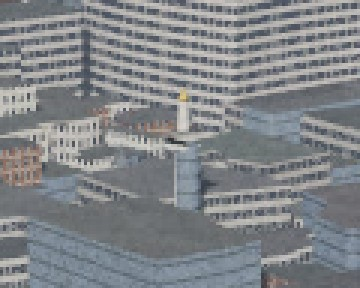
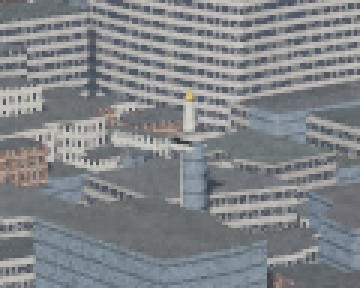
LOOK-T4-V2: báo cáo nháp §0–§2, thước đo công trình bỏ cụm lẻ, khói bếp xa mờ theo khoảng cách (dựng lại 1666)
Claude-Session: https://claude.ai/code/session_011ScMzPdAJ8FkQdvL1Acc7E

diff --git a/design/k2v/ldn/look2.js b/design/k2v/ldn/look2.js
@@ -462,7 +462,7 @@ async function buildChimneySmoke(base) {
   CHIM = new THREE.Mesh(g, new THREE.ShaderMaterial({ uniforms: U, transparent: true, depthWrite: false, blending: THREE.CustomBlending, blendSrc: THREE.OneFactor, blendDst: THREE.OneMinusSrcAlphaFactor,
     vertexShader: `attribute vec4 off; attribute vec4 sd; uniform float uYear, uT, uChimK; uniform vec3 uCam; uniform vec2 uWind; varying vec2 vUv; varying float vA; varying float vS;
       void main(){ vUv = position.xy + vec2(0.5, 0.0); float on = (uYear >= sd.x && uYear < sd.y && sd.z < uChimK) ? 1.0 : 0.0; float age = fract(off.w + uT * 0.02 + sd.w * 0.1);
-        vec3 c = off.xyz + vec3(uWind.x * age * 70.0, age * 26.0 + 1.0, uWind.y * age * 70.0); float size = (1.5 + age * 13.0) * on; vA = on * (1.0 - age) * smoothstep(0.0, 0.15, age) * 0.30 * smoothstep(180.0, 520.0, length(uCam - c)); vS = sd.w;
+        vec3 c = off.xyz + vec3(uWind.x * age * 70.0, age * 26.0 + 1.0, uWind.y * age * 70.0); float size = (1.5 + age * 13.0) * on; vA = on * (1.0 - age) * smoothstep(0.0, 0.15, age) * 0.30 * smoothstep(180.0, 520.0, length(uCam - c)) * (1.0 - smoothstep(1500.0, 3000.0, length(uCam - c))); vS = sd.w;   /* V2: khói bếp xa mờ dần (trước đây không áp sương → đốm sáng ở chân trời) */
         vec3 toC = normalize(uCam - c); vec3 rt = normalize(cross(vec3(0.0, 1.0, 0.0), toC)); vec3 up = normalize(cross(toC, rt)); vec3 w = c + (rt * position.x + up * (position.y - 0.5)) * size;
         if (size < 0.01) w = vec3(0.0, -1000.0, 0.0); gl_Position = projectionMatrix * viewMatrix * vec4(w, 1.0); }`,
     fragmentShader: `varying vec2 vUv; varying float vA; varying float vS; uniform vec3 uSunCol, uHaze; uniform float uNight; ${GLSL_N}

diff --git a/scripts/k2ldn/do_cong_trinh.py b/scripts/k2ldn/do_cong_trinh.py
@@ -36,6 +36,9 @@ def decode(png):
 def rong(yr, codes):
     m = np.isin(yr, codes)
     if not m.any(): return None
+    k, cc, st, _ = cv2.connectedComponentsWithStats(m.astype(np.uint8), 8)          # bỏ cụm lẻ < 5 px (mã trùng ngẫu nhiên / điểm rời) trước khi đo
+    m = np.isin(cc, [i for i in range(1, k) if st[i, 4] >= 5])
+    if not m.any(): return None
     ys, xs = np.nonzero(m); row = np.bincount(ys, minlength=yr.shape[0])
     best = 0
     for y in np.unique(ys):

diff --git a/reports/look-t4-v2/LOOK-T4-V2-BAO-CAO.md b/reports/look-t4-v2/LOOK-T4-V2-BAO-CAO.md
@@ -1,0 +1,81 @@
+Nhánh thật: `k2c-t4-02-look2` (gốc `origin/k2c-t4-02-look` @5123bebf). Nhánh mặc định của bộ khung (`claude/practical-mendel-u8qqn3`) KHÔNG dùng (lệnh gọi tên nhánh). SHA cuối = đỉnh nhánh (commit "… — DỪNG chờ chủ dự án").
+
+# BÁO CÁO LOOK-T4-V2 — vòng look thứ hai T4 London (K2C-T4-02) · 23/10/2026
+
+Căn cứ: chủ dự án chấm tờ LOOK-T4 (23:14) + nhận xét 23:41 — "1. Thành phố vẫn còn trông như “đồ chơi” 2. Khói và lửa cần rõ hơn 3. Các công trình biểu tượng chưa được rõ nét"; look hợp nhất 23:27 (A chuẩn + cháy ngày 1666/1940 ấm kiểu C + đêm cháy 1666 khói than dày kiểu B); L2–L6 theo khuyến nghị; lệnh 23:45 "1,2,3,4,5, đồng ý theo khuyến nghị".
+
+## Tóm tắt (đọc trước)
+- **Công trình (việc 1):** St Paul's, Monument, White Tower dựng lại chi tiết cao theo kích thước có nguồn PD (Gilbertson qua Gutenberg #48491; *London and Its Environs* 1761 qua Gutenberg #60008) + OSM. **Sửa lỗi vị trí Monument của look v1 (lệch ≈ 68 m).** Đo ở P1 1080p: vòm **46 px** (khung P1 fov 50°) — **TRƯỢT ngưỡng ≥ 60 px**; đạt **67 px** nếu P1 dùng fov 36° (cùng vị trí/hướng). **Monument và Tower nằm NGOÀI khung P1** (phương vị 49° và 77°, mép phải khung 46,7°) — đo từ vị trí P1 quay máy về từng công trình: Tower 49 px (đạt ≥ 12), **Monument 7 px (fov 50°) / 10 px (fov 36°) — TRƯỢT ≥ 12 px** vì thân cột bị khối văn phòng 2026 che, chỉ còn nón + bầu lửa ló lên. 3 chi tiết: đèn lồng vòm ĐỌC ĐƯỢC (14 px rộng ở P1), bầu lửa vàng Monument ĐỌC ĐƯỢC (4 px, sáng vàng trên nền xám), tháp góc White Tower MỜ (≈ 6 px/tháp, mũ chì tối khó đọc).
+- **Lửa + khói (việc 2):** cách A mới có lõi lửa, quầng sáng, tàn lửa theo gió đông, chân khói hắt đỏ theo độ cao, khói ngày đặc/tối/tách tầng, ánh lửa mặt tiền + mặt sông mạnh hơn. 1 khung Cycles GPU cùng máy/giờ (2 lần chạy, tổng **$0,053** theo số dư RunPod). Tự soi: lửa/khói rõ hơn LOOK-T4 thấy được; khói ngày tầng cao vẫn dạng "rèm"; khung Cycles có khói thể tích phát sáng thật hơn nhưng cảnh Cycles chưa có vân/ánh trăng.
+- **Tấm nền AI (việc 3):** 24 tấm (4 khung × 2 công cụ × 3 lượt) + 4 lần ghép lại không gọi AI. **Đạt cổng máy (i)–(v): 1 tấm** — 2026 toàn cảnh, OpenAI lượt 3. Các khung 1666 ngày: sau khi sửa 3 lỗi đường ống/3D của chính phiên này (khói bếp trong ảnh vào; dán khói bếp nguyên nền; khói bếp xa không áp sương) — kết quả §3. Đêm 1940: 0/6 (AI tự thêm cầu, đèn, thuyền). Gemini 0/12: đổi sắc nước (T9b nước→đất 19–69 %).
+- **Ước lại (việc 5):** tấm nền khả thi theo số đo ≈ **5–15 % thời lượng** (không phải 35–45 %) cho tới khi K xong phép (iii) và có quyết định V3–V4 ở phiếu. Ngân sách Gemini T4 ≈ $35: tấm nền chỉ ≈ $2–6; phần lớn là Omni M-d ($29–43 + kiểm) → **có thể vượt $35** nếu Omni cần 3 lượt.
+- **Phiếu:** `reports/look-t4-v2/PHIEU-LOOK-V2.md` (V1–V7).
+
+## §0. Nhánh, SHA, phạm vi, vận hành
+- Nhánh `k2c-t4-02-look2`, gốc `origin/k2c-t4-02-look` @5123bebf. Đã đẩy, **không merge**. Danh sách commit: `git log 5123bebf..k2c-t4-02-look2`.
+- Sửa trong vùng giao: `design/k2v/ldn/look2.js` (mới; `look.js` giữ nguyên để tái lập LOOK-T4); `scripts/k2ldn/**` (mới: `cong_trinh_v2.py`, `hinh_hoc_v2.py`, `look_khung_v2.py`, `do_cong_trinh.py`, `tam_nen_v2.py`, `tam_nen_bang.py`, `to_so_v2.py`, `v2_chay.sh`, `cy_xuat2.py`, `cy_ldn2.py`, `ai/gemini_batch.py`, `gpu/chay_cy_v2.sh`; sửa nhỏ có ghi chú: `render_look.js` (tham số --page/--lk/--mask), `nuong_look.py` (biến LDN_LOOK), `ai/n2p_lib.py` (biến N2P_DIR), `ai/oai_edit.py` + `ai/vision_kiem.py` (mốc/chặn qua biến môi trường), `gpu/pod.py` (biến NCG_LEDGER)); `channel-k2/k2c-t4-02/` (chỉ THÊM `look/may-v2/`, `ai/lenh-v2/`, `ai/goc-v2/`); `reports/look-t4-v2/**`. Không chạm `checks/` (chỉ CHẠY `checks/ll/q_thoi_dai.py` và `lock.py --verify`, không đọc mã), `docs/`, sổ, `tools/`, `design/k2v/tl/**`, `design/cong3/shared/**`, `channel-k2/k2c-t3-01/**` (chỉ đọc LUT), `LOI-NHAP-v1.md`, `BANG-SHOT-v1.*`, `TREATMENT.md`, `main`.
+- Mọi commit qua preflight (`set -o pipefail`, hook pre-commit + pre-push cài trước lần đẩy đầu) "PREFLIGHT ĐẠT" + `lock.py --verify` KHỚP. Không force-push, không amend. Email che (git dùng noreply). UA "CineLab-research (+https://github.com/HungQuach301/cine-lab)". Khoá do proxy gắn, không in/ghi.
+- Tệp lớn ngoài git ở `/var/tmp/ldn/` (OSM, LiDAR, tư liệu, vân, hình học `look2/ldn2.bin` SHA trong log, lightmap, khung thô, timelapse, gốc AI PNG/JSON). Ảnh AI tốn tiền: bản JPG ≤ 5 MB trong `channel-k2/k2c-t4-02/ai/goc-v2/` (đưa vào git trong ≤ 10 phút sau khi về), gốc + SHA trong sổ AI.
+
+## §1. Việc 1 — CÔNG TRÌNH BIỂU TƯỢNG (lớp dữ kiện, 3D, không AI)
+Mã: `scripts/k2ldn/cong_trinh_v2.py` (St Paul's, Monument, White Tower) gọi qua `scripts/k2ldn/hinh_hoc_v2.py` (thay 3 hàm của `hinh_hoc_look.py`; hàm cũ vẫn được gọi trên lưới bỏ đi để chuỗi ngẫu nhiên của phần thành phố còn lại KHÔNG lệch). Nguồn + trích nguyên văn + bậc: `reports/look-t4-v2/NGUON-CONG-TRINH.md`.
+
+| Công trình | Làm gì (V2) | Kích thước dùng · nguồn | Bậc §12.2 |
+|---|---|---|---|
+| St Paul's (Wren) | Bố cục lại theo kích thước nguồn: dài 157 m (look v1 ≈ 178 m — dài quá ≈ 20 m), tường màn 2 tầng có cửa sổ theo khoang + trụ áp + lan can sáng, cánh ngang + portico bán nguyệt có cột, mặt tây 54,9 m: portico 2 tầng cột ghép đôi (12 + 8) + trán tam giác, **hai tháp tây 67,4 m** (tầng chuông mở có cột ghép đôi, mũ chì cong, quả dứa mạ vàng); trống Ø 34,1 m: hàng 32 cột + 8 khối đặc + Stone Gallery + tầng gác có 24 cửa sổ; **vỏ vòm chì Ø 31,1 m có 24 gân** (shader theo góc); Golden Gallery + lan can sắt; **đèn lồng có 4 cánh trụ + 8 ô cửa**; mũ chì; quả cầu vàng Ø ≈ 2 m; thập giá tới 111,3 m | 515 / 250 / 180 / 112 / 102 / 221 / 365 ft (Gilbertson, Gutenberg #48491); 110 ft lan can, 121 ft thân (Wikipedia) | 3 (kích thước) · 4–5 (tỉ lệ tầng, số cột, đèn lồng) |
+| Monument | **Đặt lại theo OSM r3374550 (532923, 180761)** — look v1 lệch ≈ 68 m; đế 27 ft, bệ 21,5 ft × 40 ft + gờ + 4 khối rồng góc, thân Doric 20 rãnh Ø 15 ft cao 120 ft, đầu cột + abacus + lan can sắt, nón 32 ft, bầu lửa mạ vàng + 9 lưỡi lửa | 15 / 120 / 40 / 42 / 32 ft (*London and Its Environs* 1761, Gutenberg #60008); 21,5 / 27 ft (Strype 1720 qua lookup.london — thứ cấp, chưa đọc gốc) | 1 vị trí · 3 · 5 (rồng, lưỡi lửa) |
+| White Tower | Theo tâm + trục OSM w369135772; 36 × 32 m, 27 m; răng cưa lan can, trụ áp, 3 tầng cửa sổ; tháp vuông TB + TN, tháp tròn ĐB, apse bán nguyệt ĐN; mũ chì cong + chong chóng mạ vàng; màu quét vôi trắng; tường thành giữ như v1 + 3 tháp giữa mỗi cạnh tường (bậc 5) | Wikipedia "White Tower" (36 × 32 m, 27 m, vị trí tháp góc) | 1 · 3 · 4 (mũ chì, Hollar) · 5 |
+| Old St Paul's, London Bridge 1666 | Giữ như LOOK-T4 (Hollar/Dugdale 1658) | — | — |
+| 30 St Mary Axe, Leadenhall | Hình khối giữ (OSM + LiDAR); **vật liệu** riêng: dải kính tối xoắn + lưới kim cương (mt 15); khung giằng chéo lộ (mt 16) | ảnh công khai | 1 hình khối · 4 vật liệu |
+
[1 lines of base64/hex data omitted]
+
+**Số đo 1080p từ điểm máy P1 [532330, 180250, 230]** (mặt nạ mã công trình có che khuất thật, `scripts/k2ldn/do_cong_trinh.py`; thước bỏ cụm lẻ < 5 px; ô cắt phóng ×3 lân cận gần nhất: `reports/look-t4-v2/cong-trinh/`; số: `reports/look-t4-v2/do/cong-trinh.json`). Năm 2026 ngày (khung M4-rong).
+
+| Đo | P1 khung thật (fov 50°) | P1 fov 36° (cùng vị trí/hướng) | P1 quay nhìn thẳng công trình, fov 50° / 36° | Ngưỡng lệnh | Kết quả |
+|---|---|---|---|---|---|
+| Bề ngang VỎ VÒM St Paul's | **46 px** | **67 px** | 39 / 55 | ≥ 60 | TRƯỢT ở fov 50°; đạt ở fov 36° |
+| — trống (hàng cột) | 51 | 73 | 43 / 61 | — | — |
+| — đèn lồng (gồm Golden Gallery, cầu, thập giá) | 14 × 32 | 20 × 51 | 11 / 16 | chi tiết nhận ra | ĐỌC ĐƯỢC (ô cắt) |
+| — tháp tây (mỗi tháp) | 34 × 81 | 49 × 144 | 27 / 38 | — | — |
+| Monument (phần thấy được) | ngoài khung (phương vị 49°) | ngoài khung | **7 / 10** (thân cột chỉ thấy 1 px — khối văn phòng 2026 che; bệ khuất hẳn) | ≥ 12 | **TRƯỢT** |
+| — bầu lửa mạ vàng | — | — | 4 × 4 / 4 × 6 | chi tiết nhận ra | ĐỌC ĐƯỢC (chấm vàng sáng) |
+| White Tower (khối + tháp góc) | ngoài khung (phương vị 77°) | ngoài khung | **49 / 70** (khối chính 38 / 54) | ≥ 12 | đạt |
+| — mỗi tháp góc | — | — | ≈ 6 px (6,6 m ở 1,32 km) | chi tiết nhận ra | MỜ — mũ chì tối khó đọc |
+
+Đọc số: ngưỡng ≥ 60 px cho vòm ở P1 **không đạt được với kích thước đúng nguồn ở fov 50°** (vòm 31,1 m ở ≈ 0,94 km). Không phóng to mô hình để "đạt số" (luật cứng). Đường đạt: P1 fov 36° (đề xuất V5) hoặc máy gần hơn. Monument: kể cả fov 36° cũng không đủ 12 px vì bị che ở 2026; ở 1700–1840 (trước khối Victoria) Monument sẽ lộ cả thân — chưa đo (không có khung đó trong tờ so).
+
+
+## §2. Việc 2 — LỬA + KHÓI (lớp dữ kiện, 3D)
+Mã: `design/k2v/ldn/look2.js` (bản sao `look.js` + nâng; LOOK-T4 tái lập được bằng `look.js`). Look hợp nhất theo mốc ở `scripts/k2ldn/look_khung_v2.py` → `channel-k2/k2c-t4-02/look/may-v2/*.json` (cùng máy/giờ 8 hàng LOOK-T4).
+
+| Hạng mục | LOOK-T4 (A) | V2 |
+|---|---|---|
+| Ngọn lửa | sprite atlas cam đều | **lõi vàng trắng** (t² + nhánh lõi), cỡ 5–14 m (trước 4–11), + **quầng sáng** mềm 26–48 m trên mỗi ô cháy (cộng sáng, đêm ×4) |
+| Tàn lửa | không có | **tàn lửa bay theo gió** (5/ô 1666, 3/ô 1940): bốc 60–220 m, trôi theo gió 160–460 m, chập chờn; cỡ ≥ 1,5 px ở mọi khoảng cách |
+| Khói ngày | xám nhạt, mỏng như sương | **đặc khối, mép rõ, nâu đen ở chân → xám nâu lên cao**, được nắng chiếu theo kênh G atlas; **tách tầng**: cột bốc tới trần 0,36–0,70 km rồi loang ngang theo gió đông; chân cột hắt lửa cả ban ngày |
+| Khói đêm | toàn cụm phát sáng cam | **chỉ chân cột/mặt dưới tầng khói (< ≈ 150 m) hắt đỏ** theo độ cao thật của cụm khói; tầng trên tối |
+| Ánh lửa | mặt tiền ×(2,2 · 0,5 · 0,06), mặt sông ×(0,14 · 0,05) | mặt tiền ×(2,4 · 0,85 · 0,14) (lan xa hơn), mặt sông ×(0,30 · 0,12) |
+| Look | A | A + C ấm (M2-ngay, M3-*), A + B khói than (M2-dem); sương phối cảnh 1/16 → **1/10 km**; mái/tường phong hoá theo nhà (chống "đồ chơi", `uToy`) |
+
+Ba khung so (cách A mới): `khung/M2-ngay-v2-3d.jpg` (ngày khói 3/9/1666 15:00, P1), `khung/M2-dem-v2-3d.jpg` (đêm 2/9 23:00 từ giữa sông, P6), `khung/M3-trung-v2-3d.jpg` (đêm 29/12/1940 22:30 quanh mái vòm, Fleet St) — cột "LOOK-T4 đã chọn" cạnh từng ô trên tờ so.
+
+**Cycles GPU (một khung cùng máy/giờ M2-dem):** cảnh xuất bằng `scripts/k2ldn/cy_xuat2.py` (hình học V2, 772 246 tam giác, 169 ô cháy) → RunPod.
+| Lần | Cảnh | GPU | Bật → tắt | Dựng 1 khung 1080p | $ ước theo giờ | Ghi chú |
+|---|---|---|---|---|---|---|
+| 1 | `cy_ldn.py` (tiền kỳ, giữ nguyên) spp 48 | RTX 5090 SECURE $1,19/h | 74 s (sẵn sàng 22 s; cài + tải 24 s) | **10,85 s** (23 s gồm nạp cảnh) | $0,024 | mặt tiền cháy trắng cả mảng; khói lốm đốm — không công bằng để so → `khung/M2-dem-cycles-ban1.jpg` |
+| 2 | `cy_ldn2.py` (chỉnh: cháy theo mảng, lửa thể tích sáng hơn, khói cụm lớn, trăng) spp 64 | RTX 4090 SECURE $0,89/h (5090 hết máy, HTTP 500) | 117 s | **23,83 s** (33 s gồm nạp) | $0,029 | khói thể tích phát sáng mềm, phản chiếu sông; thiếu vân, ánh trăng yếu → cột "Cycles" tờ so |
+Số dư RunPod: $21,138 → **$21,085 (thật $0,053)**; pod xoá HTTP 204 cả hai lần; không pod nào còn chạy.
+
+Tốc độ sản xuất cách A V2 (1080p, spp 4, P = 2, 24 khung, trung vị khung 1–23): ngày 1666 **7,04 / 7,11 s**; đêm lửa 1940 **7,16 / 7,11 s** (LOOK-T4: 7,28–7,75 s) — thêm tàn lửa/quầng không làm chậm đo được. Khung tĩnh spp 24: 38–47 s.
+
+Tự soi (thẳng): khói ngày V2 đọc thành cột/khối rõ hơn, nhưng **tầng cao vẫn là "rèm" sprite lặp**; đêm 1940: các đám cháy rời + tàn lửa + cột khói hắt đỏ đọc tốt; **St Paul's bị ánh lửa hắt trắng đều** (đọc như đèn pha) — nên giảm ánh lửa trên Portland ở vòng sau; mặt sông đêm 1940 gần đen (không thấy phản chiếu lửa vì lửa cách sông > 500 m).
+
+
+<!--TAM-NEN-->
+
+<!--TO-SO-->
+
+<!--UOC-->
+
+<!--CUOI-->
